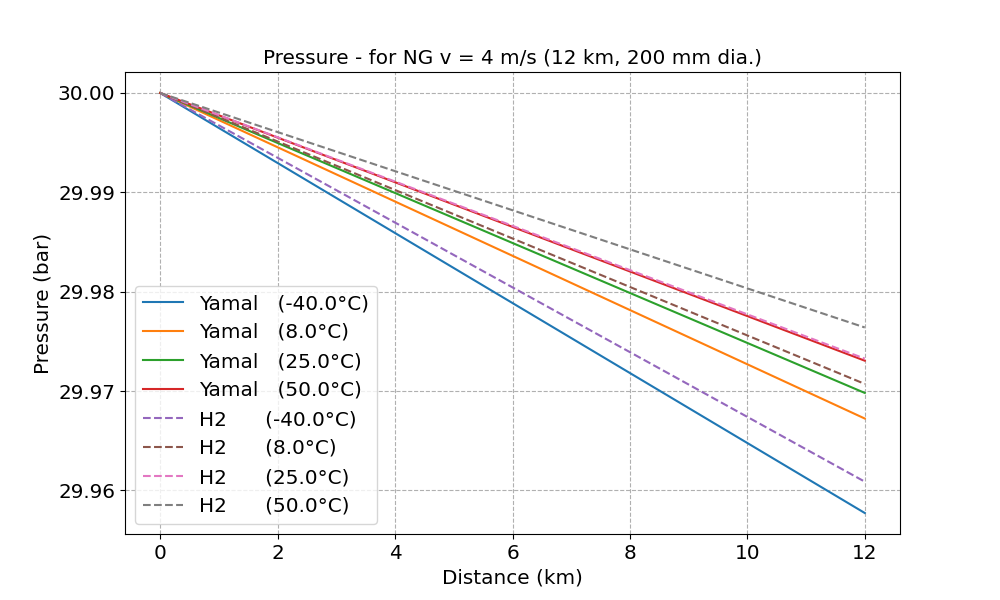
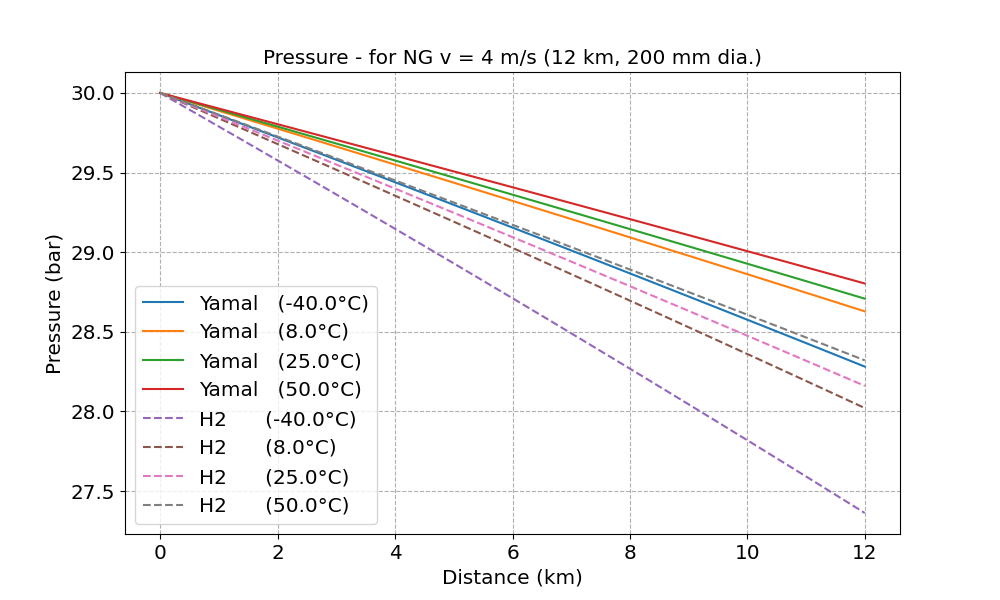
p* plot now done

diff --git a/moody.py b/moody.py
@@ -546,6 +546,8 @@ def funct_B_sub(g, Qg, D):
     D  (m)
     
     Must return value in Pa² / K.m
+    
+    P* = ( Q / A ) * sqrt ( R T / m) in units of Pascals
     """
     Rg = 8.31446261815324 # J/K.mol # R = 0.083144626  # l.bar/(mol.K) 
     A = get_A(D) # m²
@@ -558,10 +560,32 @@ def funct_B_sub(g, Qg, D):
 @memoize
 def funct_B(g, Qg, T, D):
     # B = Q² R T / A² m # Pa² / m
-    B = T * funct_B_sub(g, Qg, D)
-    sqrtB = np.sqrt(B)/1e5
+    B = T * funct_B_sub(g, Qg, D) # Pascals-squared
+    #sqrtB = np.sqrt(B)/1e5        # bar
     #print(f"-- {g:7} {T=:7.2f} K  ({T-T273:5.1f}°C) B: {B:10.4e} sqrt(B):{sqrtB:9.4f} bar²")
     return B
+    
+@memoize
+def p_star(g, Qg, T, D):
+    # B = Q² R T / A² m # Pa²
+    # B = P*²
+    B = funct_B(g, Qg, T, D) # Pa²
+    p_star = np.sqrt(B)/1e5        # Pa -> bar
+    return p_star
+    
+@memoize
+def p_star_v(g, v, T):
+    """Calculate P* but in terms of gas velocity, not in terms of mass flow rate per cross-section area.
+    We do not lose any generality by simply setting D = 1 metre and P = 1 atm
+    As P* is related to the speed of sound, it only depends on T and not on P or anything else.
+    """
+    D = 1
+    A = get_A(D)
+    P = Atm
+    # Qg = mass flow rate = v . density . A  = m/s * kg/m^3 * m²
+    ϱ = get_density(g, P, T)
+    Qg = v * ϱ * A
+    return p_star(g, Qg, T, D)
 
 @memoize
 def running_dp38(L, g, T, P0, f_function, rr, D, Qh):
@@ -707,6 +731,30 @@ def dp38(x, P, g, T, f_function, rr, D, Qh):
     #print (f"--{g:7} P={P/1e5:0.5f} bar  {B=:0.5e} Pa² gradient={gradient*1000:0.5e} bar/km")
     return gradient # bar/m
 
+def plot_p_star(): 
+    """Plot P* for NG and H2 for a range of temperatures
+    """
+         
+    temperatures = np.linspace(233.15, 323.15, 100)  
+    plt.figure(figsize=(10, 5))
+    
+    for g in ['NG', 'H2']:
+        for v in [0.1, 1, 4, 10, 20]:
+            label=f"{v:4.1f} m/s"
+            txt = f"{g} {label}"
+            pstar_v = [p_star_v(g, v, t) for t in temperatures]
+            
+            # print(f"P* {g:7} at  {v:4.1f} m/s")
+            plt.semilogy(temperatures, pstar_v,  label=txt, **plot_kwargs(g))
+
+    plt.title(f'P* = ( Q / A ) * sqrt ( R T / m)')
+    plt.xlabel('Gas temperature (K)')
+    plt.ylabel('P* (bar)')
+    plt.legend()
+    plt.grid(True)
+
+    plt.savefig("pipe_pstar.png")
+    plt.close()
 #@memoize
 def LPM(g, T, P_ent, L_seg, D, Qh, rr=1e-5, f_function=afzal_mod):
     """LinePackMetric for a gas in a pipe of length L (m), diameter D (m), carrying Qh (GW) of gas
@@ -1137,7 +1185,8 @@ plt.rcParams.update(params)
 T8C = T273 +8
 T = T8C
 P = 30
-# plot_lpm() # using defaults for rr and f_function
+plot_p_star()
+plot_lpm() # using defaults for rr and f_function
 
 moody_ylim = True
 
